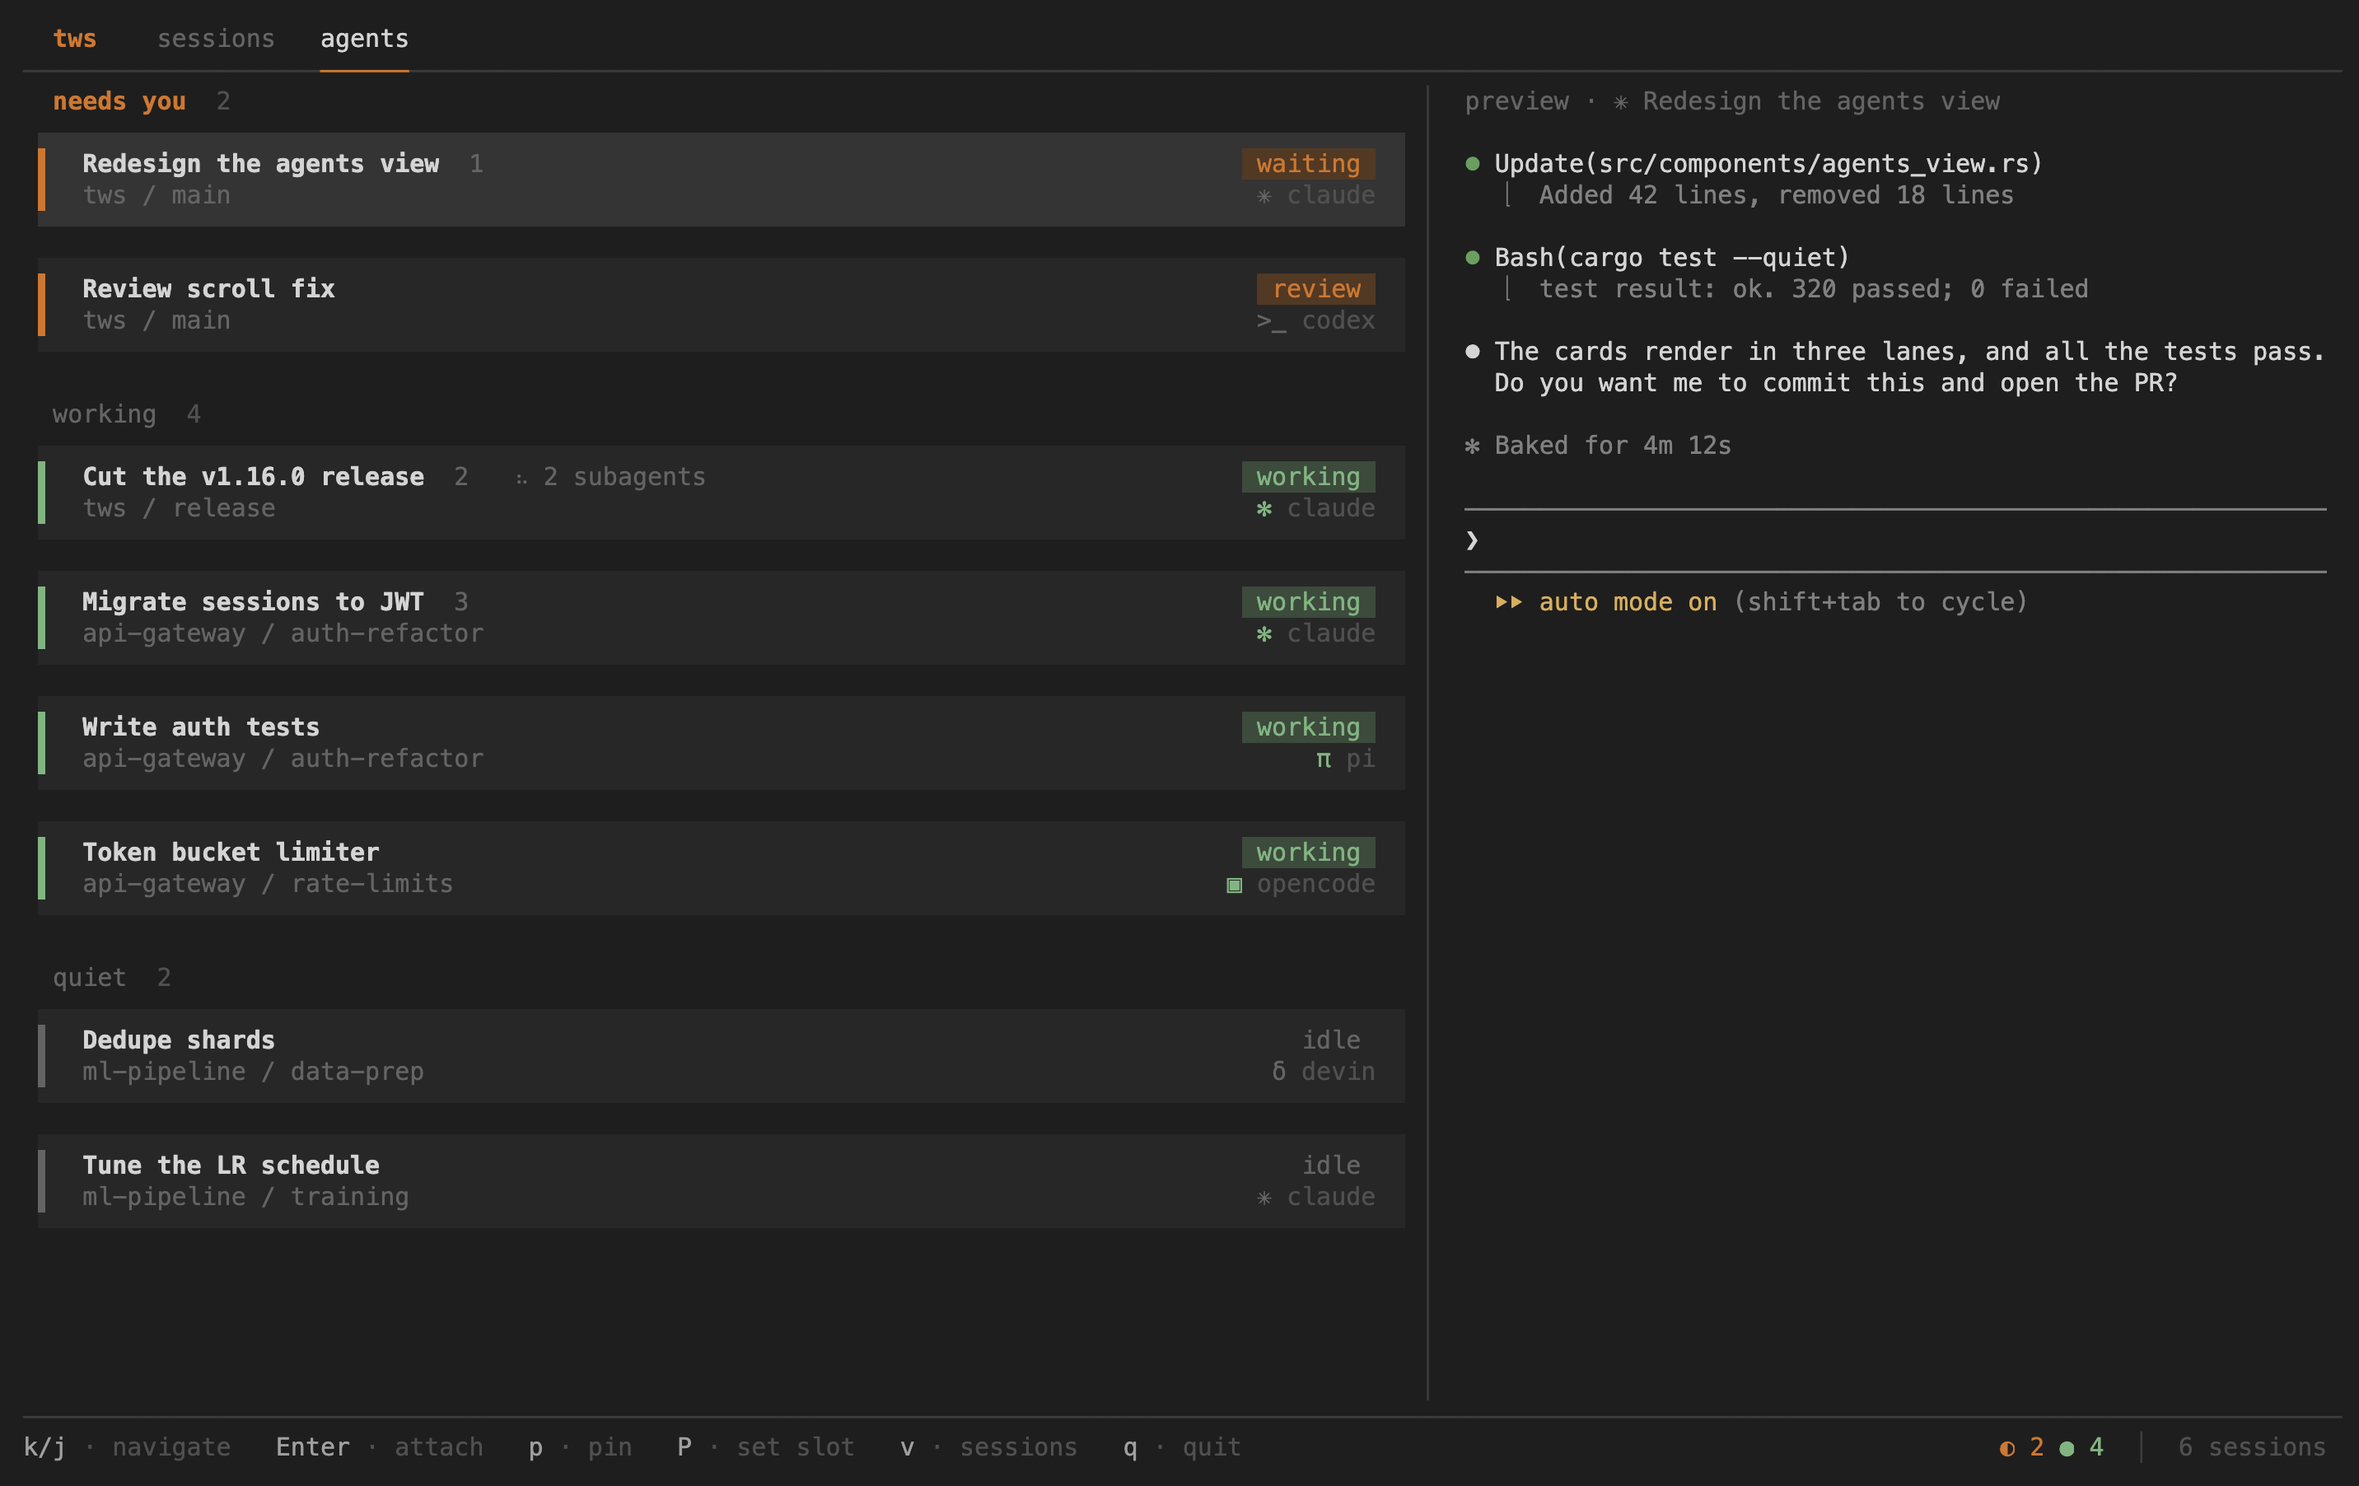
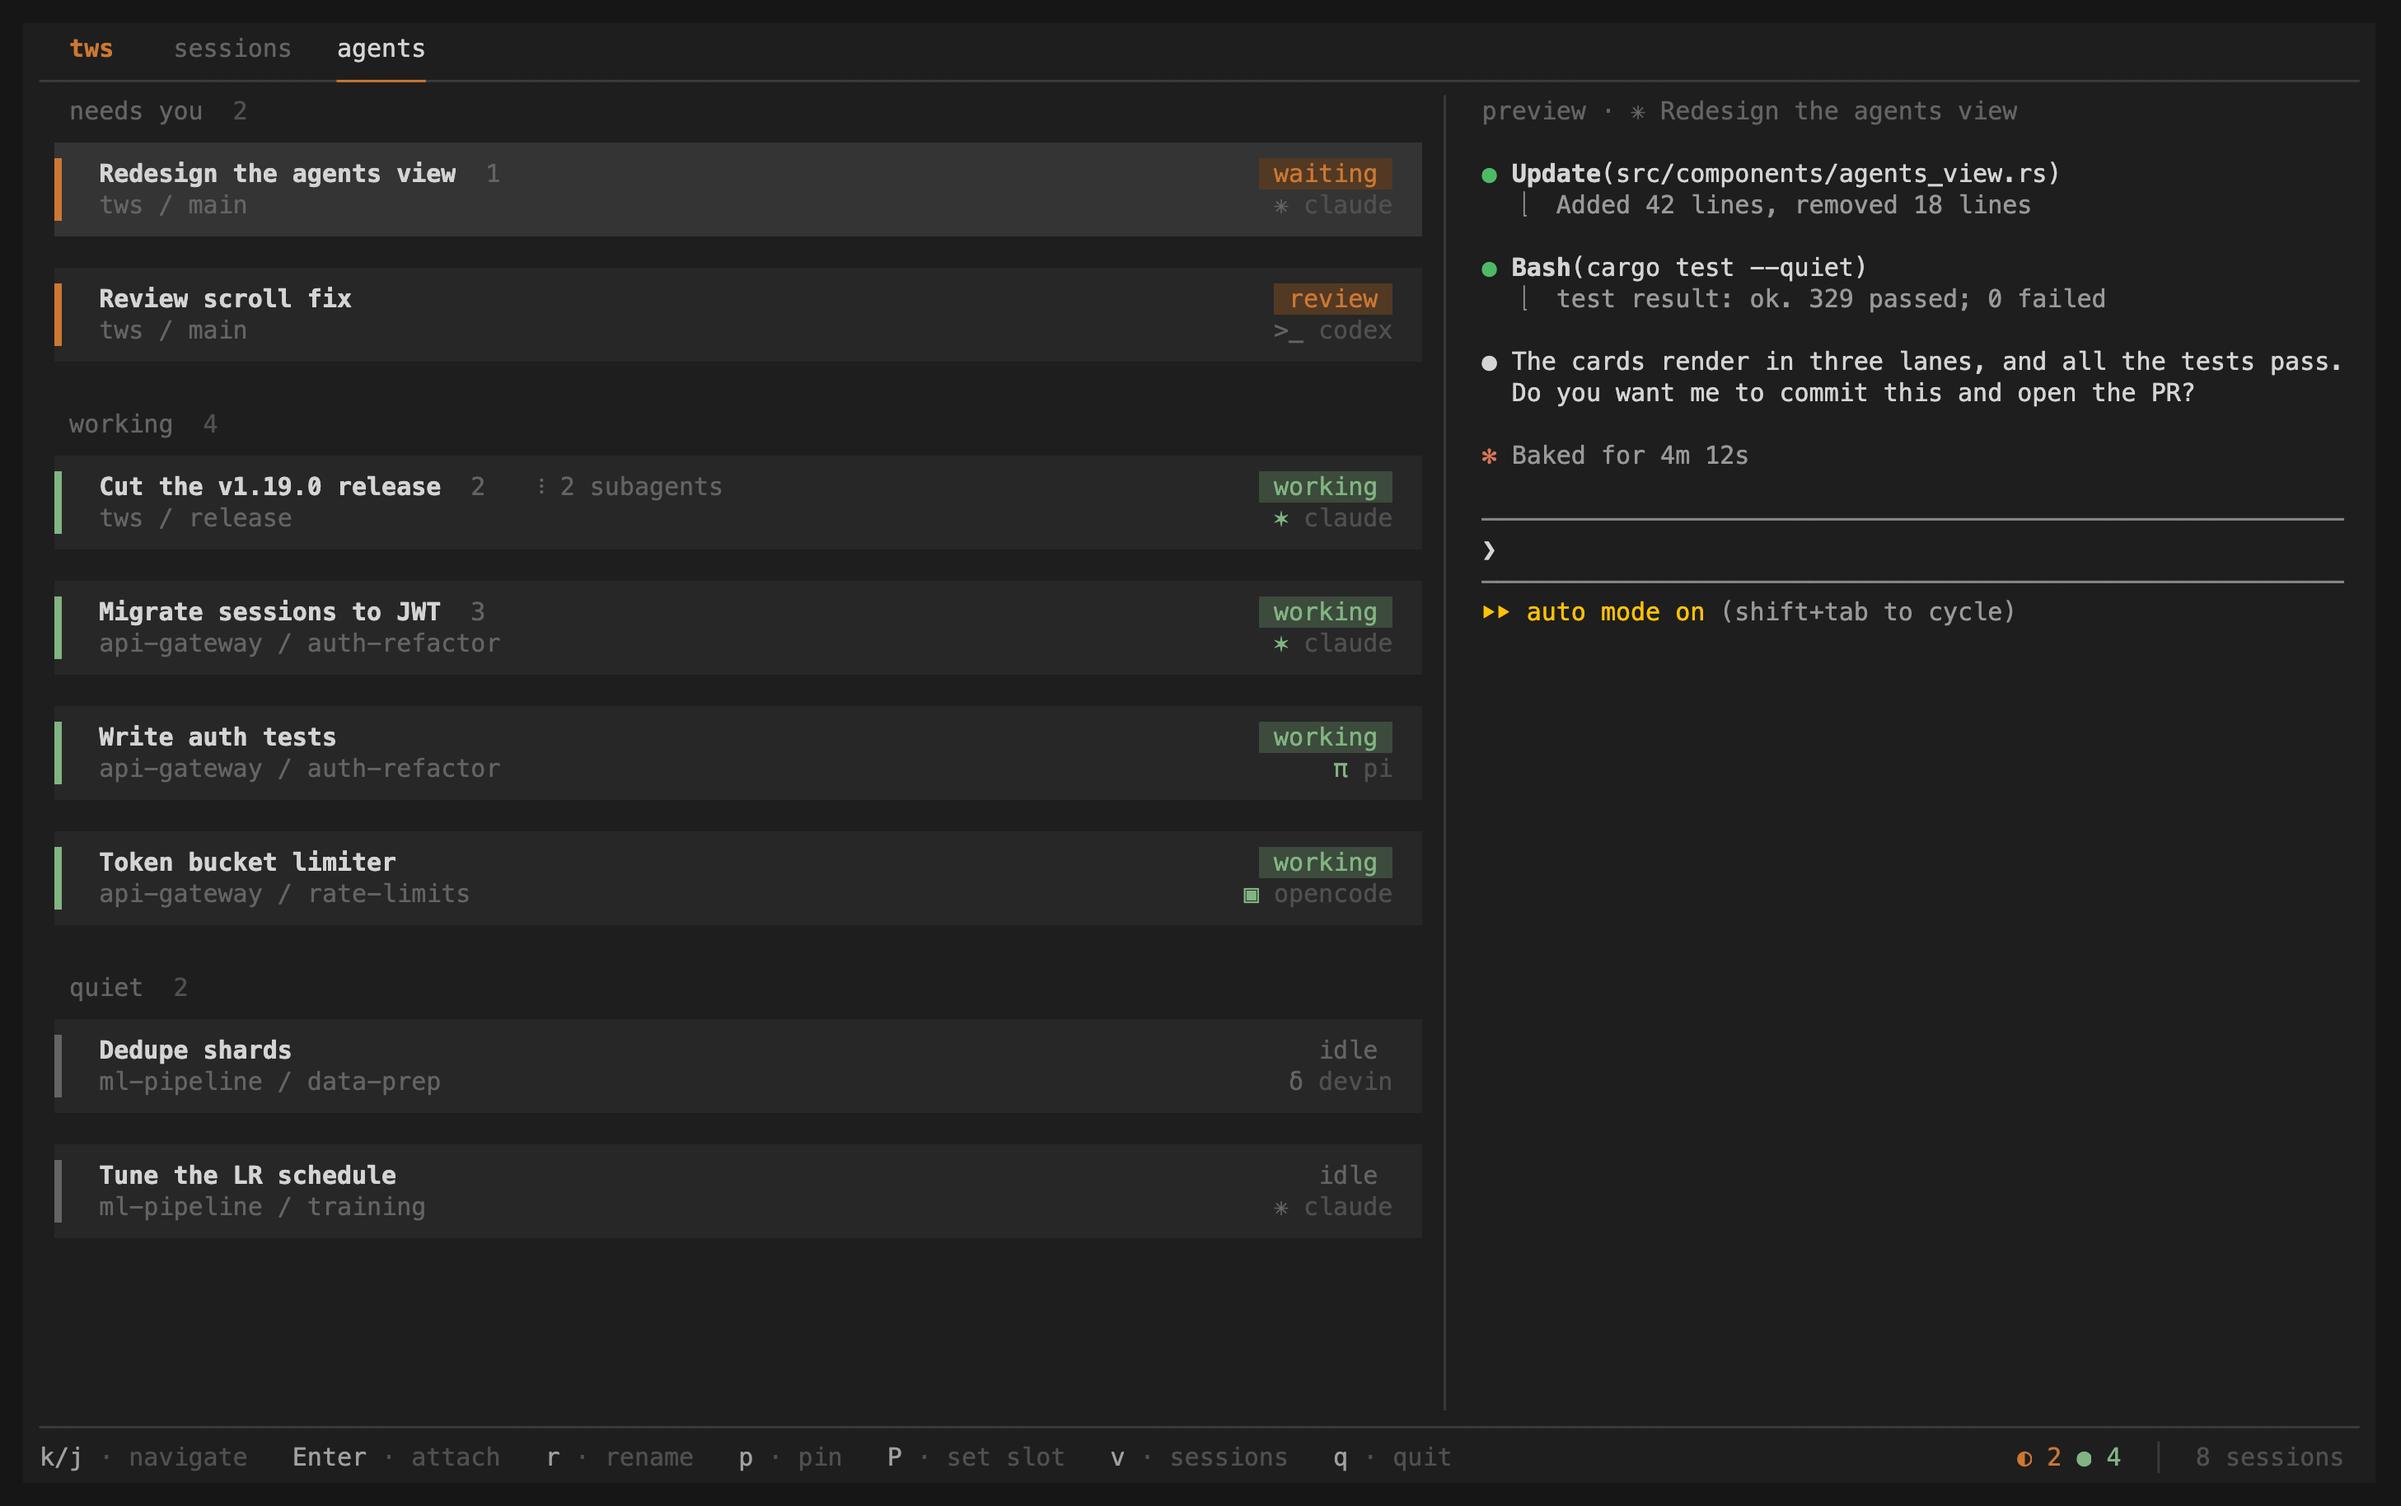
docs: describe tws as a terminal workspace manager for Rex and tmux, and refresh the README images

diff --git a/src/main.rs b/src/main.rs
@@ -18,7 +18,7 @@ use core::persistence;
 use core::state::AppState;
 
 #[derive(Parser)]
-#[command(name = "tws", about = "tmux workspace manager", version)]
+#[command(name = "tws", about = "terminal workspace manager", version)]
 struct Cli {
     #[command(subcommand)]
     command: Option<Command>,

diff --git a/README.md b/README.md
@@ -1,18 +1,18 @@
 
 # tws
 
-**tmux workspace manager** — organize your tmux sessions into threads.
+**terminal workspace manager** — organize your terminal sessions into threads. Works with [Rex](https://www.superlogical.com/rex/) and [tmux](https://github.com/tmux/tmux).
 
-<img width="960" height="624" alt="tws-demo" src="https://github.com/user-attachments/assets/7b6d8503-5b65-4669-8593-e86ed77fa9e0" />
+<img width="960" height="602" alt="tws-demo" src="assets/demo.gif" />
 
-tws is a terminal UI that adds a persistent organizational layer on top of tmux. tmux sessions are flat and ephemeral; tws groups them into **threads** you control, and launches and attaches them for you.
+tws is a terminal UI that adds a persistent organizational layer on top of your terminal. It runs on one of two backends: [Rex](https://www.superlogical.com/rex/) (the default) or [tmux](https://github.com/tmux/tmux). Terminal sessions are flat and ephemeral; tws groups them into **threads** you control, and launches and opens them for you.
 
 - **Threads** — units of work (e.g. `auth-refactor`, `bug-1234`, `scratch`), each holding one or more sessions
-- **Sessions** — live tmux sessions, launched and attached from tws
+- **Sessions** — live terminal sessions (a Rex window or a tmux session), launched and opened from tws
 
-Threads are saved to `~/.config/tws/`. Sessions are real tmux sessions discovered at runtime. Detach from a tmux session to go back to tws.
+Threads are saved to `~/.config/tws/`. Sessions are real Rex windows or tmux sessions that tws finds at runtime. With Rex, tws stays open in its own tab, or opens as a popup with **Cmd+S**. With tmux, detach from a session to go back to tws. See [Backends](#backends).
 
-<img width="2940" height="1912" alt="tws-welcome" src="https://github.com/user-attachments/assets/023bb887-9f75-4bdd-8a84-43d9c35fb8ef" />
+<img width="2914" height="1828" alt="tws-welcome" src="assets/welcome.png" />
 
 ## Features
 
@@ -20,7 +20,7 @@ Threads are saved to `~/.config/tws/`. Sessions are real tmux sessions discovere
 
 The main view. The thread/session tree on the left, a notes panel on the right. Threads expand to show their sessions, and each running session reveals any AI coding agents detected inside it. Press `Enter` on a thread to spawn a new session, or on a session to attach.
 
-<img width="2940" height="1912" alt="tws-sessions" src="https://github.com/user-attachments/assets/cc23cebe-38c1-44f3-9f85-657284c1000e" />
+<img width="2914" height="1828" alt="tws-sessions" src="assets/sessions-view.png" />
 
 ### Thread working directories
 
@@ -45,9 +45,11 @@ is running inside tmux).
 
 Toggle with `v`. A flat view of every AI coding agent (Claude Code, Codex, Pi, Devin CLI, OpenCode) running across all your sessions, regardless of which thread owns them. Each agent is a card with its status and harness, in three lanes: needs you, working, and quiet. A card that starts to need you gets a short sweep of light. Press `r` to rename an agent. Pin frequently-used agents to numbered slots — `p` to pin, `P` to set a slot, `0`–`9` to jump to a pinned agent from anywhere.
 
-<img width="2864" height="1804" alt="tws-agents" src="assets/agents-view.png" />
+<img width="2914" height="1828" alt="tws-agents" src="assets/agents-view.png" />
 
 ### Session fork (experimental)
+
+This feature works with the tmux backend only.
 
 Press `prefix+F` in a Claude Code pane to open a **forked** copy of that
 session in a new pane on the right. The fork inherits the whole conversation.
@@ -66,6 +68,8 @@ This feature works with Claude Code only. Codex, Pi, Devin and OpenCode panes do
 forking. `codex resume` appends to the parent session instead of forking it.
 
 ### Read a pane by moving into it
+
+This feature works with the tmux backend only.
 
 An agent pane in the review state means that the agent finished and you did not
 look yet. When you attach through tws, tws clears the state. When you move into
@@ -102,6 +106,8 @@ The fixed index `89` makes a reload replace the tws entry, and it leaves your ow
 hooks at other indexes alone.
 
 ### Status bar
+
+This feature works with the tmux backend only.
 
 The tmux status bar can show your agents, so you do not need to open tws to see
 them. Each window tab shows one glyph for each agent in that window: a green `●`
@@ -200,15 +206,15 @@ Press `/` to search across all active sessions by name or path, sorted by most-r
 
 ### Recent sessions
 
-Keys `1`–`5` attach to the five most-recently-attached sessions instantly — useful for hopping between two or three active workstreams without leaving the keyboard home row.
+Keys `1`–`5` attach to the five most-recently-attached sessions instantly — useful for hopping between two or three active workstreams without leaving the keyboard home row. This feature works with the tmux backend only, because Rex does not record when you last opened a window.
 
 ### Agent detection
 
-tws scans tmux panes periodically and identifies running AI coding agents by their child process names — no manual registration. Agents appear automatically under their session in the tree. The optional install-time hooks make tws refresh immediately when an agent starts or stops, instead of waiting for the next scan. When the optional hooks are installed, tws also shows each agent's live status — working, waiting for you, finished and awaiting review, or idle — as a colored bar and status chip in the agents view (`v`), with a count of working/waiting agents in the status bar. A pane that goes silent for 15 minutes while claiming to work is treated as no longer working and drops to idle, so an interrupted or crashed agent does not stay marked active forever.
+tws scans the panes of each session periodically and identifies running AI coding agents by their child process names — no manual registration. Agents appear automatically under their session in the tree. The optional install-time hooks make tws refresh immediately when an agent starts or stops, instead of waiting for the next scan. When the optional hooks are installed, tws also shows each agent's live status — working, waiting for you, finished and awaiting review, or idle — as a colored bar and status chip in the agents view (`v`), with a count of working/waiting agents in the status bar. A pane that goes silent for 15 minutes while claiming to work is treated as no longer working and drops to idle, so an interrupted or crashed agent does not stay marked active forever.
 
 ### Importing existing sessions
 
-Already have tmux sessions running? `tws import` walks you through assigning them to threads, so that they show in the tree.
+Already have tmux sessions running? `tws import` walks you through assigning them to threads, so that they show in the tree. This command works with the tmux backend only. To copy tmux sessions into Rex, see [Copy tmux sessions into Rex](#copy-tmux-sessions-into-rex).
 
 ## Requirements
 
@@ -324,7 +330,7 @@ The mouse works in both views: point at a row to select it, and click a session 
 | `Enter` | Attach to a session, or create a new one on a thread |
 | `x` | Kill the selected session (or a thread's sessions) |
 
-Inside a session, detach with `prefix + d` to return to tws.
+With Rex, tws stays open in its own tab: go back to that tab, or press **Cmd+S** to open tws as a popup. With tmux, detach with `prefix + d` to return to tws.
 
 ## Backends
 

diff --git a/AGENTS.md b/AGENTS.md
@@ -49,13 +49,13 @@ Don't use `--follow-tags` (only pushes annotated tags) or `--tags` (pushes all l
 
 ## What This Is
 
-tws is a standalone Rust TUI that organizes tmux sessions into threads. It adds a persistent layer on top of ephemeral tmux sessions:
+tws is a standalone Rust TUI that organizes terminal sessions into threads. It runs on a Rex or a tmux backend. It adds a persistent layer on top of ephemeral terminal sessions:
 
 ```
 Thread → Session(s)
 ```
 
-Threads are user-created and persist to `~/.config/tws/state.json` as a plain array. Sessions are live tmux sessions that tws finds at runtime. A session name is `twsr_<thread-slug>_<label>`. tws detects agent sessions (Claude Code, Codex, Pi, Devin CLI, OpenCode) when it scans the process tree of each tmux pane.
+Threads are user-created and persist to `~/.config/tws/state.json` as a plain array. Sessions are live terminal sessions that tws finds at runtime: Rex windows or tmux sessions. A session name is `twsr_<thread-slug>_<label>`. tws detects agent sessions (Claude Code, Codex, Pi, Devin CLI, OpenCode) when it scans the process tree of each pane.
 
 ## Architecture
 
